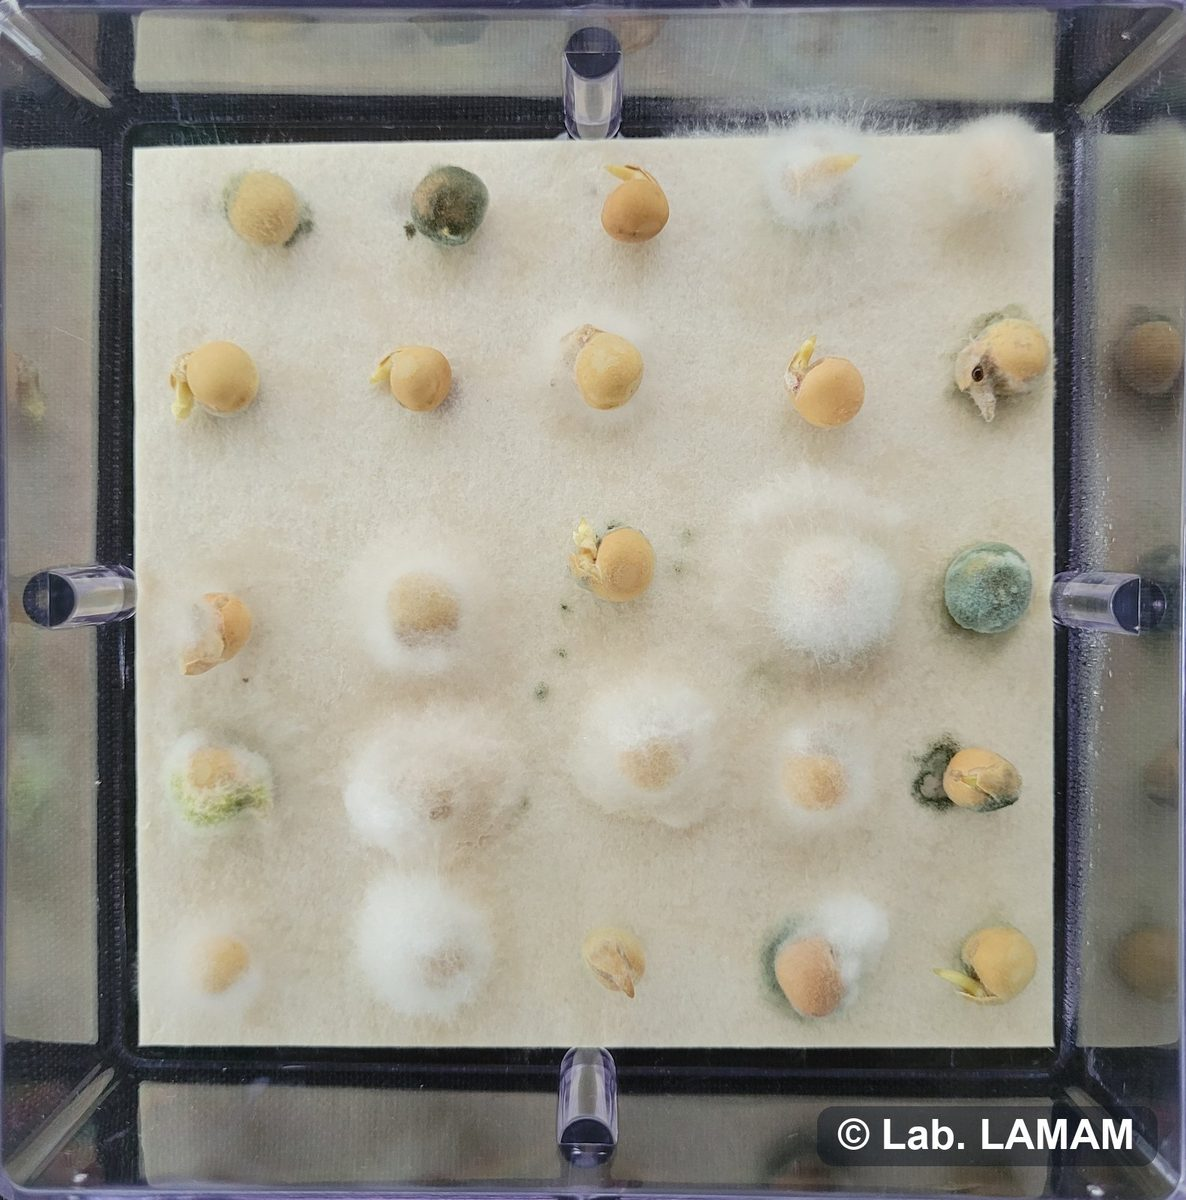
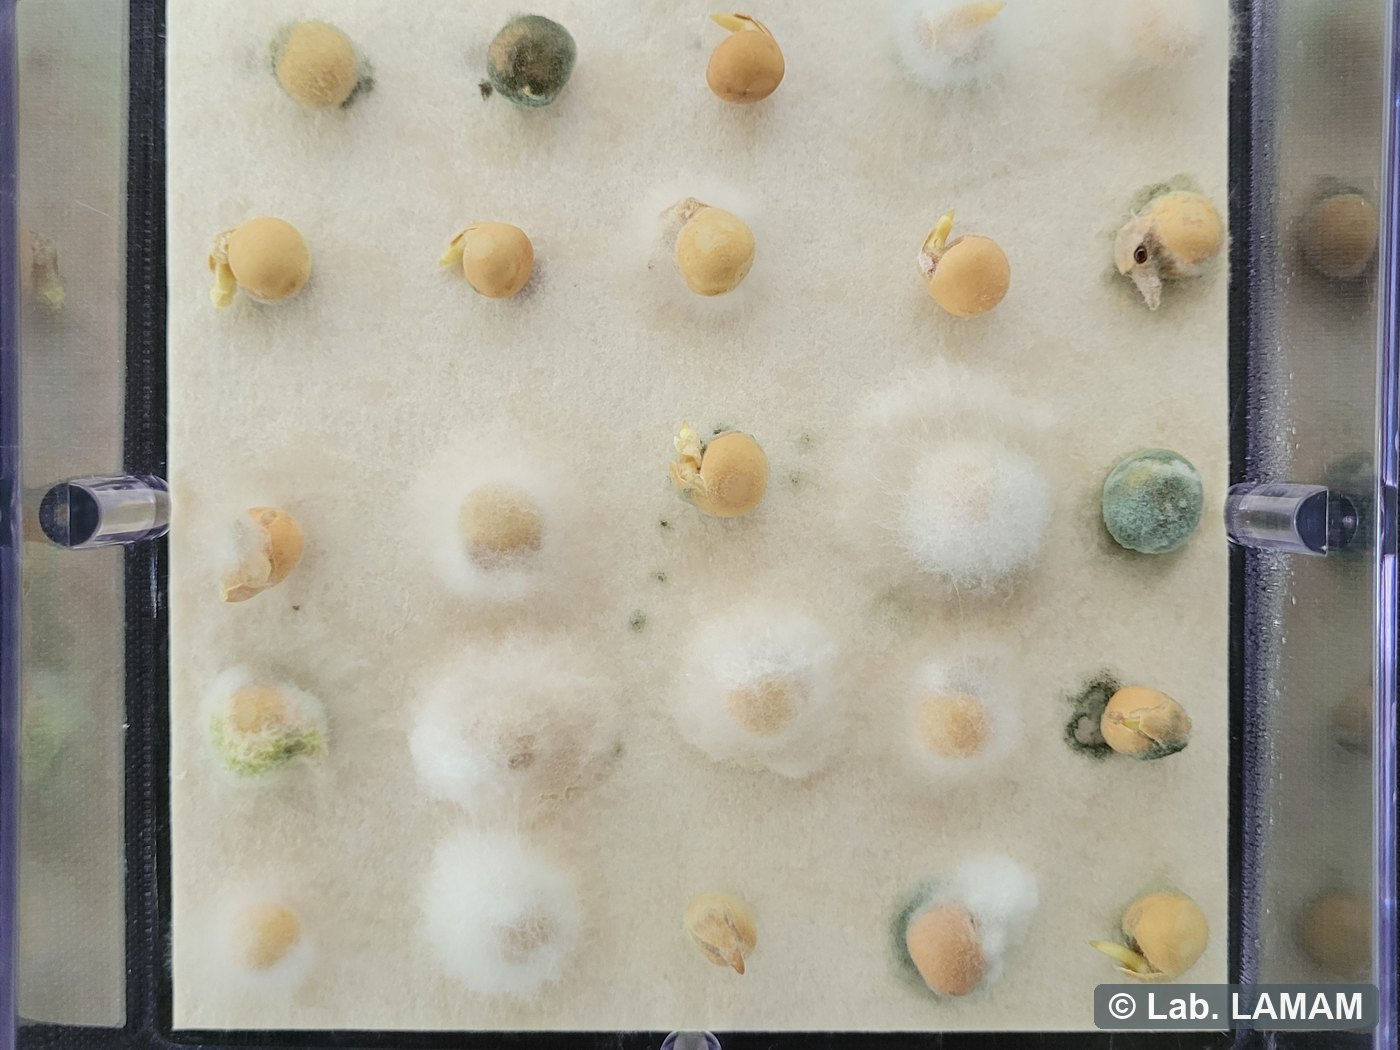
Heros: novas fotos p/ placas resinadas, contaminantes e patologia de sementes
- placas-resinadas: placa de antagonismo (Fusarium x biocontrole) -> novo
  svc-placas-resinadas.jpg (nao mexe no hero-plate.jpg, que e compartilhado).
- contaminantes: nova placa (colonias rosa) -> svc-contaminantes.jpg.
- patologia-sementes: gerbox de sanidade -> svc-patologia-sementes.jpg
  (pagina deixa de usar gal-6.jpg).
Discos redondos completados p/ 4:3 (fundo preto, sem cortar); gerbox recortado
4:3 central. Marca d'agua (c) Lab. LAMAM + alt + cache-bust. Conferido no visual.

diff --git a/servicos/placas-resinadas.html b/servicos/placas-resinadas.html
@@ -11,7 +11,7 @@
 <meta property="og:type" content="website">
 <meta property="og:title" content="Confecção de placas com microrganismos resinadas — LAMAM">
 <meta property="og:description" content="Placas de microrganismos preservadas em resina, para didática e exposição.">
-<meta property="og:image" content="https://laboratoriolamam.com.br/img/hero-plate.jpg">
+<meta property="og:image" content="https://laboratoriolamam.com.br/img/svc-placas-resinadas.jpg">
 <meta property="og:locale" content="pt_BR">
 <link rel="preconnect" href="https://fonts.googleapis.com">
 <link rel="preconnect" href="https://fonts.gstatic.com" crossorigin>
@@ -48,7 +48,7 @@
         <a class="btn btn-soft" href="../index.html#servicos">&larr; Ver todos</a>
       </div>
     </div>
-    <div class="svc-hero-img"><img src="../img/hero-plate.jpg" alt="" loading="lazy"></div>
+    <div class="svc-hero-img"><img src="../img/svc-placas-resinadas.jpg?v=1" alt="Placa de cultura com teste de antagonismo entre fungos" loading="lazy"></div>
   </div>
 </section>
 

diff --git a/servicos/patologia-sementes.html b/servicos/patologia-sementes.html
@@ -11,7 +11,7 @@
 <meta property="og:type" content="website">
 <meta property="og:title" content="Patologia de sementes — LAMAM">
 <meta property="og:description" content="Sanidade de sementes — detecção de fungos e patógenos.">
-<meta property="og:image" content="https://laboratoriolamam.com.br/img/gal-6.jpg">
+<meta property="og:image" content="https://laboratoriolamam.com.br/img/svc-patologia-sementes.jpg">
 <meta property="og:locale" content="pt_BR">
 <link rel="preconnect" href="https://fonts.googleapis.com">
 <link rel="preconnect" href="https://fonts.gstatic.com" crossorigin>
@@ -48,7 +48,7 @@
         <a class="btn btn-soft" href="../index.html#servicos">&larr; Ver todos</a>
       </div>
     </div>
-    <div class="svc-hero-img"><img src="../img/gal-6.jpg" alt="" loading="lazy"></div>
+    <div class="svc-hero-img"><img src="../img/svc-patologia-sementes.jpg?v=1" alt="Sementes em teste de sanidade (gerbox), com desenvolvimento de fungos" loading="lazy"></div>
   </div>
 </section>
 

diff --git a/servicos/contaminantes.html b/servicos/contaminantes.html
@@ -48,7 +48,7 @@
         <a class="btn btn-soft" href="../index.html#servicos">&larr; Ver todos</a>
       </div>
     </div>
-    <div class="svc-hero-img"><img src="../img/svc-contaminantes.jpg" alt="" loading="lazy"></div>
+    <div class="svc-hero-img"><img src="../img/svc-contaminantes.jpg?v=2" alt="Placa com colônias de microrganismos contaminantes em meio de cultura" loading="lazy"></div>
   </div>
 </section>
 
